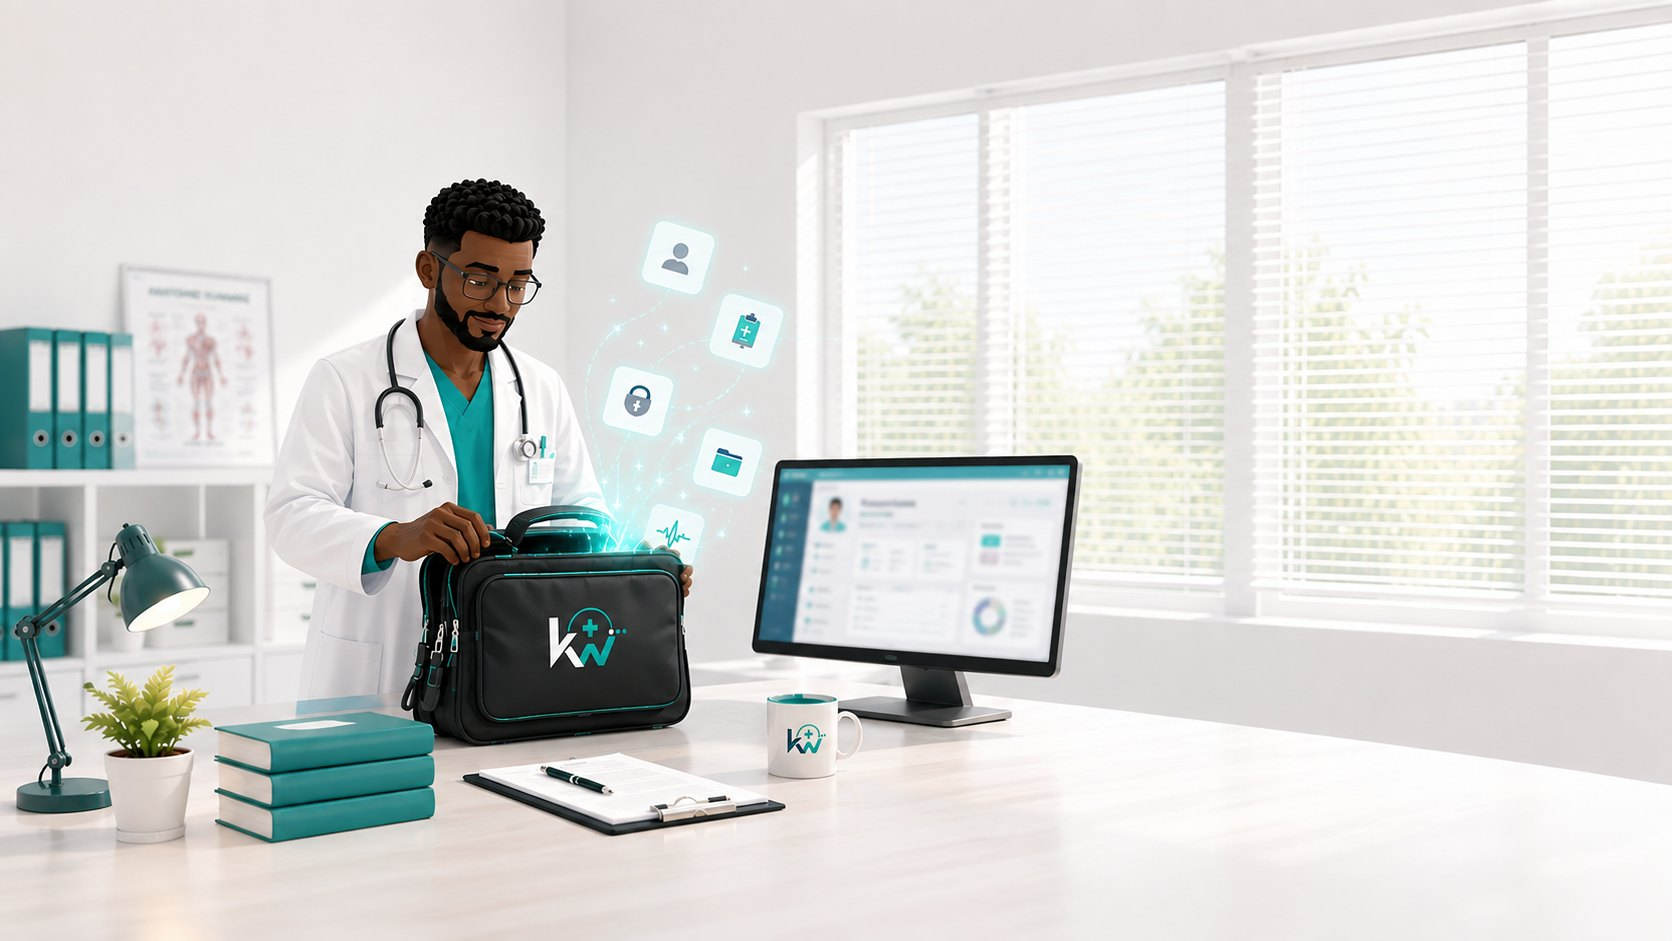
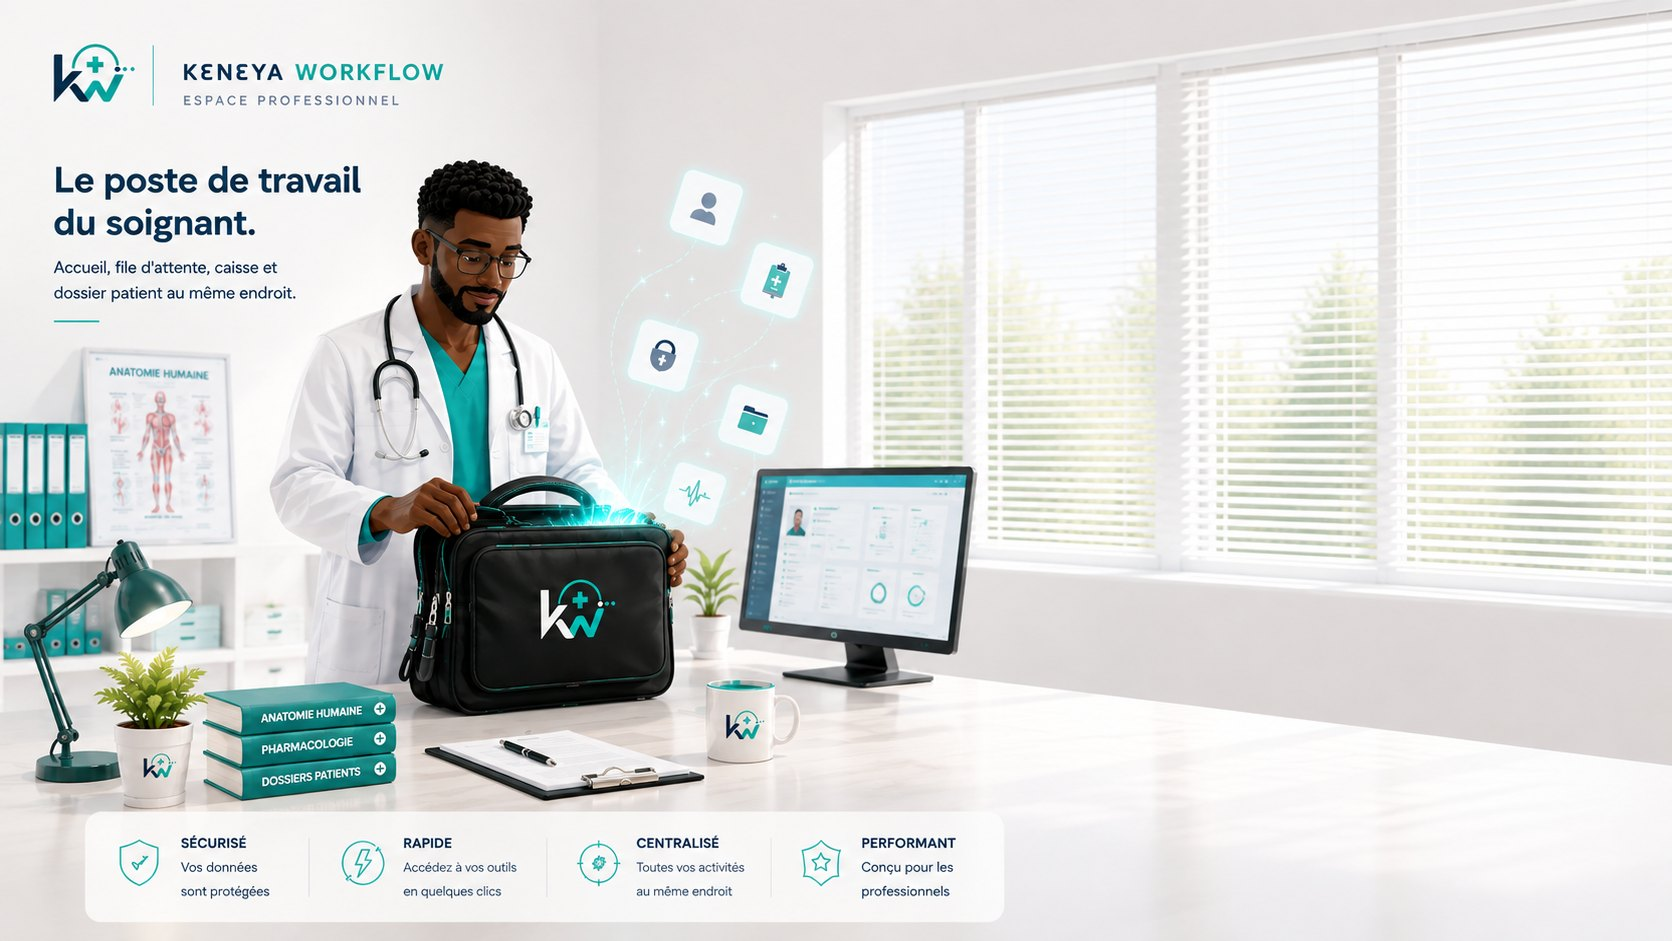
Connexion : la maquette elaboree en fond, la carte dans la zone laissee libre
Le fond devient login_bg.png : la scene y garde son logo, son titre et sa barre
d'atouts peints, et la carte de connexion en a ete retiree, la moitie droite
restant vide a partir de l'ecran d'ordinateur.

Consequence directe : le titre, le sous-titre et les quatre atouts que j'avais
reconstruits en HTML sont retires — l'image les porte, les garder ferait
doublon. On y perd la traduction et la nettete a toute taille ; c'est l'
arbitrage assume en faveur de la richesse graphique de la maquette.

Le cadrage est ancre a gauche plutot que centre : le logo, le titre et les
atouts vivent dans cette moitie de l'image. Sur une fenetre moins large que son
16:9, c'est donc la fenetre — a droite, vide — qui se fait rogner, jamais le
discours.

Petits ecrans : deux recadrages dedies, calcules sur les bornes mesurees du
texte peint (logo jusqu'a 29 % de la largeur, titre 21 %, barre d'atouts a
partir de 84 % de la hauteur). Sans eux, le bandeau affichait le logo de
l'image sous celui du gabarit — logo en double — et une barre d'atouts coupee
en deux.

Poids : 1,6 Mo de PNG deviennent 193 Ko en plein ecran, 78 et 62 Ko pour les
bandeaux.

425 tests, 1410 assertions au vert ; Pint conforme.

Claude-Session: https://claude.ai/code/session_017CQA8pKbTaDjVT1eLrU8zY

diff --git a/public/css/app.css b/public/css/app.css
@@ -1115,91 +1115,17 @@ fieldset { border: 0; margin: 0; padding: 0; min-width: 0; }
     position: fixed;
     inset: 0;
     overflow: hidden;
-    background: #eef2f5 url('../images/login-scene.jpg') center center / cover no-repeat;
+    /* Ancrage a gauche : le logo, le titre et la barre d'atouts sont peints
+       dans cette moitie de l'image. Sur une fenetre moins large que le 16:9 de
+       l'image, c'est donc la fenetre — a droite, vide — qui se fait rogner, et
+       jamais le discours. */
+    background: #eef2f5 url('../images/login-scene.jpg') left center / cover no-repeat;
 }
 
 .login-stage__scene {
     position: absolute;
     inset: 0;
 }
-
-/* ---------- Le discours, a gauche ----------
-   Il etait peint dans l'image : il est desormais du texte. Il se traduit, se
-   lit a la loupe, reste net sur un videoprojecteur, et ne coute plus une
-   retouche graphique a chaque correction. Le voile clair garantit le contraste
-   par-dessus l'affiche d'anatomie et les classeurs. */
-
-.login-hero {
-    position: absolute;
-    /* Large et bas plutot qu'etroit et haut : le bloc tient ainsi au-dessus
-       de la tete du soignant, sans jamais la recouvrir. */
-    top: 4vh;
-    left: max(4.5vw, 1.5rem);
-    max-width: min(42rem, 46vw);
-    padding: .95rem 1.4rem 1rem;
-
-    /* Pas de flou d'arriere-plan : il rendrait le visage du soignant
-       meconnaissable des que le bloc l'effleure. Un simple voile clair suffit
-       au contraste, et laisse la photographie intacte. */
-    background: rgba(255, 255, 255, .8);
-    border-radius: 14px;
-}
-
-.login-hero__title {
-    margin: 0;
-    font-size: clamp(1.35rem, 2.05vw, 2.05rem);
-    line-height: 1.15;
-    font-weight: 700;
-    letter-spacing: -.015em;
-    color: #06214a;
-    text-wrap: balance;
-}
-
-.login-hero__sub {
-    margin: .45rem 0 0;
-    font-size: clamp(.88rem, 1vw, 1.02rem);
-    line-height: 1.5;
-    color: #46586f;
-}
-
-.login-hero::after {
-    content: "";
-    display: block;
-    width: 2.8rem;
-    height: 3px;
-    margin-top: .75rem;
-    background: #05a39d;
-    border-radius: 2px;
-}
-
-.login-atouts.login-atouts--scene {
-    position: absolute;
-    left: max(4.5vw, 1.5rem);
-    bottom: 5vh;
-    display: grid;
-    grid-template-columns: repeat(4, minmax(0, 1fr));
-    gap: 1.2rem;
-    max-width: min(54rem, 60vw);
-    margin: 0;
-    padding: 1rem 1.3rem;
-    list-style: none;
-    background: rgba(255, 255, 255, .86);
-    border-radius: 14px;
-}
-
-.login-atouts.login-atouts--scene li {
-    display: grid;
-    grid-template-columns: auto 1fr;
-    align-items: start;
-    gap: .6rem;
-    font-size: .76rem;
-    line-height: 1.35;
-    color: #46586f;
-}
-
-.login-atouts.login-atouts.login-atouts--scene li + li { border-left: 1px solid #dbe3ea; padding-left: 1.2rem; }
-.login-atouts.login-atouts--scene svg { width: 1.4rem; height: 1.4rem; color: #05a39d; }
-.login-atouts.login-atouts--scene b { display: block; font-size: .74rem; letter-spacing: .07em; text-transform: uppercase; color: #06214a; }
 
 /* ---------- La carte de connexion ---------- */
 
@@ -1452,7 +1378,6 @@ fieldset { border: 0; margin: 0; padding: 0; min-width: 0; }
 
     /* Le discours de la scene n'a pas sa place sur un petit ecran : on y vient
        pour se connecter, pas pour lire une accroche. */
-    .login-hero, .login-atouts.login-atouts--scene { display: none; }
     .login-stage { position: static; overflow: visible; }
 
     .login-stage { background: #eef2f5; }
@@ -1480,7 +1405,7 @@ fieldset { border: 0; margin: 0; padding: 0; min-width: 0; }
         /* Recadrage propre de la photographie : l'image de grand ecran porte
            deja le titre, la carte et les atouts, qui n'ont rien a faire dans
            un bandeau. */
-        background: url('../images/login-scene-mobile.jpg') center 30% / cover no-repeat;
+        background: url('../images/login-scene-mobile.jpg') center 8% / cover no-repeat;
     }
 
     .login-band__marque {
@@ -1552,8 +1477,10 @@ fieldset { border: 0; margin: 0; padding: 0; min-width: 0; }
 @media (min-width: 48rem) and (max-width: 64rem) {
     .login-stage__scene::before {
         height: 45dvh;
-        background-image: url('../images/login-scene.jpg');
-        background-position: center 55%;
+        /* Recadrage paysage sans texte peint : sur l'image complete, le logo
+           de l'image et celui du gabarit se superposaient. */
+        background-image: url('../images/login-scene-tablette.jpg');
+        background-position: center 40%;
     }
 
     .login-card__inner { padding: 2.2rem 2rem 1.8rem; }

diff --git a/resources/views/auth/login.blade.php b/resources/views/auth/login.blade.php
@@ -7,45 +7,6 @@
          alt="{{ config('keneya.name') }} — Espace professionnel"
          width="910" height="180">
 
-    {{-- Le discours de la scene. Il etait peint dans l'image ; il est
-         desormais du texte : traduisible, net a toutes les tailles, et
-         corrigible sans repasser par une retouche graphique. --}}
-    <div class="login-hero">
-        <h2 class="login-hero__title">Le poste de travail du soignant.</h2>
-        <p class="login-hero__sub">Accueil, file d'attente, caisse et dossier patient au meme endroit.</p>
-    </div>
-
-    <ul class="login-atouts login-atouts--scene">
-            <li>
-                <svg viewBox="0 0 24 24" fill="none" stroke="currentColor" stroke-width="1.8"
-                     stroke-linecap="round" stroke-linejoin="round" aria-hidden="true">
-                    <path d="M12 3l7.5 3v5.5c0 4.4-3.1 8.3-7.5 9.5-4.4-1.2-7.5-5.1-7.5-9.5V6Z" /><path d="M8.8 12.2l2.2 2.2 4.2-4.4" />
-                </svg>
-                <span><b>Securise</b>Vos donnees sont protegees</span>
-            </li>
-            <li>
-                <svg viewBox="0 0 24 24" fill="none" stroke="currentColor" stroke-width="1.8"
-                     stroke-linecap="round" stroke-linejoin="round" aria-hidden="true">
-                    <path d="M13 2 4.5 13.5H11l-1 8.5 8.5-11.5H12l1-8.5Z" />
-                </svg>
-                <span><b>Rapide</b>Accedez a vos outils en quelques clics</span>
-            </li>
-            <li>
-                <svg viewBox="0 0 24 24" fill="none" stroke="currentColor" stroke-width="1.8"
-                     stroke-linecap="round" stroke-linejoin="round" aria-hidden="true">
-                    <circle cx="12" cy="12" r="8.5" /><circle cx="12" cy="12" r="3.5" /><path d="M12 1.5v3M12 19.5v3M1.5 12h3M19.5 12h3" />
-                </svg>
-                <span><b>Centralise</b>Toutes vos activites au meme endroit</span>
-            </li>
-            <li>
-                <svg viewBox="0 0 24 24" fill="none" stroke="currentColor" stroke-width="1.8"
-                     stroke-linecap="round" stroke-linejoin="round" aria-hidden="true">
-                    <path d="M12 3.5l2.6 5.3 5.9.9-4.2 4.1 1 5.8-5.3-2.8-5.3 2.8 1-5.8-4.2-4.1 5.9-.9Z" />
-                </svg>
-                <span><b>Performant</b>Concu pour les professionnels</span>
-            </li>
-    </ul>
-
     {{-- L'enveloppe porte le remplissage et sert d'echelle : la carte,
          elle, est le conteneur de requetes, et un conteneur ne peut pas
          exprimer son propre remplissage dans ses unites. --}}
